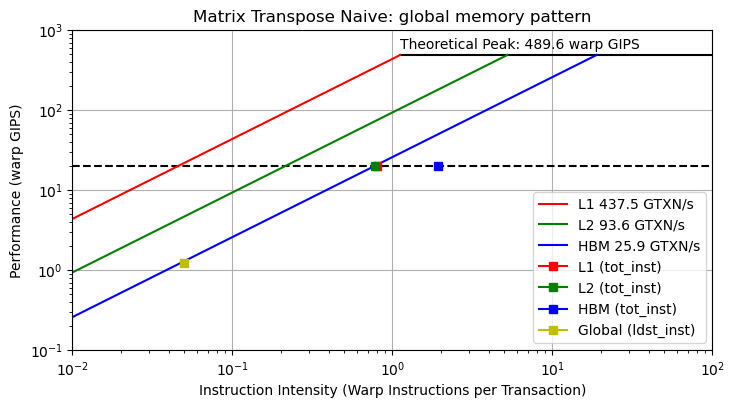
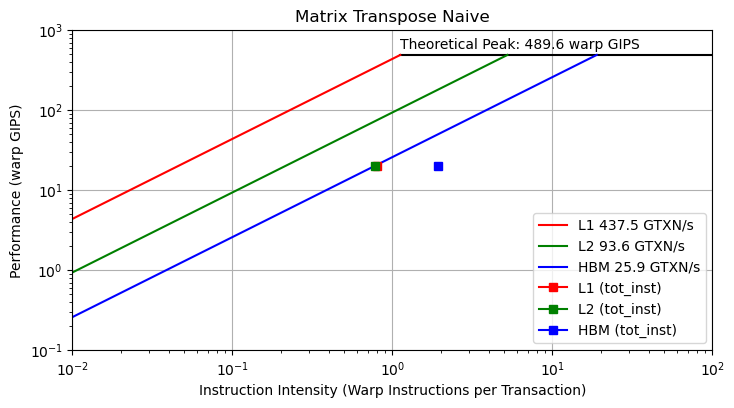
Remake of plot.py

diff --git a/plot.py b/plot.py
@@ -1,109 +1,10 @@
 import matplotlib
-matplotlib.use("Agg")
 import matplotlib.pyplot as plt
 import numpy as np
 import pandas as pd
+import argparse
 
-def roofline(kernel_name):
-    # Format csv files to discard nvprof unwanted output
-    # e.g. : ==5328== NVPROF is profiling process 5328, command: ./transpose
-
-    for file in [f'timing_{kernel_name}.csv', f'metrics_{kernel_name}.csv', f'events_{kernel_name}.csv']:
-        with open(file,"r+") as f:
-            new_f = f.readlines()
-            f.seek(0)
-            for line in new_f:
-                if "==" not in line:
-                    f.write(line)
-            f.truncate()
-
-    # get csv databases with pandas
-    timing = pd.read_csv(f'timing_{kernel_name}.csv')
-    events = pd.read_csv(f'events_{kernel_name}.csv')
-    metrics = pd.read_csv(f'metrics_{kernel_name}.csv')
-
-    ## Kernel Time ##
-    time_row = timing.loc[(timing.Name.str.match(r'{}.'.format(kernel_name), na=False))]
-
-    kernel_time = float(time_row["Avg"]) # average kernel time
-
-    unit_row = timing.loc[(timing['Time(%)'].str.match('%', na=False))]
-    unit = unit_row.iloc[0]["Avg"] # unit used
-
-    # change to usec
-    if unit == 'ms':
-        kernel_time *= 1000
-    elif unit == 'ns':
-        kernel_time /= 1000
-    elif unit == 's':
-        kernel_time *= 1000000
-
-    # Total Instructions
-
-    instructions = events.loc[(events["Event Name"] == "thread_inst_executed")]
-
-    # take Average if there are multiple kernel calls and scale to  warp-level
-    total_inst_nrml = int(instructions["Avg"]) / 32 
-
-
-    ## L1 stats ##
-
-    gld_stats = metrics.loc[(metrics["Metric Name"] == "gld_transactions")]
-    gld_transactions = int(gld_stats["Avg"])
-
-    gst_stats = metrics.loc[(metrics["Metric Name"] == "gst_transactions")]
-    gst_transactions = int(gst_stats["Avg"])
-
-    sld_stats = metrics.loc[(metrics["Metric Name"] == "shared_load_transactions")]
-    sld_transactions = int(sld_stats["Avg"])
-
-    sst_stats = metrics.loc[(metrics["Metric Name"] == "shared_store_transactions")]
-    sst_transactions = int(sst_stats["Avg"])
-
-    l1_total = gld_transactions + gst_transactions + sld_transactions + sst_transactions
-
-    l1_intensity = total_inst_nrml / l1_total
-    l1_performance = total_inst_nrml / (1000 * kernel_time) # performance in  GIPS ( kernel_time in μsecs )
-
-
-    ## Global Transactions ##
-
-    gb_stats = metrics.loc[(metrics["Metric Name"] == "inst_executed_global_loads")]
-    gb_transactions = int(gb_stats["Avg"])
-
-    gb_total = gld_transactions + gst_transactions
-    gb_intensity = gb_transactions / gb_total
-    gb_performance = gb_transactions / (1000 * kernel_time)
-
-
-    ## L2 stats ##
-
-    l2_read_stats = metrics.loc[(metrics["Metric Name"] == "l2_read_transactions")]
-    l2_read_transactions = int(l2_read_stats["Avg"])
-
-    l2_write_stats = metrics.loc[(metrics["Metric Name"] == "l2_write_transactions")]
-    l2_write_transactions = int(l2_write_stats["Avg"])
-
-    l2_total = l2_read_transactions + l2_write_transactions 
-
-    l2_intensity = total_inst_nrml / l2_total
-    l2_performance = total_inst_nrml / (1000 * kernel_time) # performance in  GIPS ( kernel_time in μsecs )
-
-
-    ## HBM stats ##
-
-    dram_read_stats = metrics.loc[(metrics["Metric Name"] == "dram_read_transactions")]
-    dram_read_transactions = int(dram_read_stats["Avg"])
-
-    dram_write_stats = metrics.loc[(metrics["Metric Name"] == "dram_write_transactions")]
-    dram_write_transactions = int(dram_write_stats["Avg"])
-
-    dram_total = dram_read_transactions + dram_write_transactions 
-
-    hbm_intensity = total_inst_nrml / dram_total
-    hbm_performance = total_inst_nrml / (1000 * kernel_time) # performance in  GIPS ( kernel_time in μsecs )
-
-
+def create_graph():
     ## Define Bandwidths ##
 
     peak = 489.6 # theoretical peak 489.6 warp GIPS
@@ -138,10 +39,6 @@ def roofline(kernel_name):
     instr_min = 10**xmin
     instr_max = 10**xmax
 
-    # define ceilings
-    help_x = np.asarray([instr_min, instr_max]) # helper dotted line
-    help_y = np.asarray([l1_performance, l1_performance])
-
     peak_x = np.asarray([l1_elbow, 10**xmax]) # performance ceiling
     peak_y = np.asarray([peak, peak]) 
 
@@ -155,29 +52,210 @@ def roofline(kernel_name):
     hbm_y = np.asarray([hbm_bw*instr_min, peak])
 
     # add architectural characterization to figure
-    ax.plot(help_x, help_y, color='0', linestyle='--')
     ax.plot(peak_x, peak_y, color='0') # Performance ceiling
     ax.plot(l1_x, l1_y, color='r', label='L1 437.5 GTXN/s') # L1 ceiling
     ax.plot(l2_x, l2_y, color='g', label='L2 93.6 GTXN/s') # L2 ceiling
     ax.plot(hbm_x, hbm_y, color='b', label='HBM 25.9 GTXN/s') # HBM ceiling
 
-    # add application characterization
-    ax.plot(l1_intensity, l1_performance, color='r', marker = 's', label="L1 (tot_inst)")
-    ax.plot(l2_intensity, l2_performance, color='g', marker = 's', label="L2 (tot_inst)")
-    ax.plot(hbm_intensity, hbm_performance, color='b', marker = 's', label="HBM (tot_inst)")
-    ax.plot(gb_intensity, gb_performance, color='y', marker = 's', label="Global (ldst_inst)")
+    # text for peak performance
+    ax.text(l1_elbow, peak+100, f'Theoretical Peak: {peak} warp GIPS')
+
+    return ax,fig
+
+def timing(kernel_dic, kernel_name, filename):
+    # Format csv files to discard nvprof unwanted output
+    # e.g. : ==5328== NVPROF is profiling process 5328, command: ./transpose
+
+    with open(filename,"r+") as f:
+        new_f = f.readlines()
+        f.seek(0)
+        for line in new_f:
+            if "==" not in line:
+                f.write(line)
+        f.truncate()
+
+    # get csv database with pandas
+    timing = pd.read_csv(filename)
+
+    ## Kernel Time ##
+    time_row = timing.loc[(timing.Name.str.match(r'{}.'.format(kernel_name), na=False))]
+
+    kernel_time = float(time_row["Avg"]) # average kernel time
+
+    unit_row = timing.loc[(timing['Time(%)'].str.match('%', na=False))]
+    unit = unit_row.iloc[0]["Avg"] # unit used
+
+    # change to usec
+    if unit == 'ms':
+        kernel_time *= 1000
+    elif unit == 'ns':
+        kernel_time /= 1000
+    elif unit == 's':
+        kernel_time *= 1000000
+
+    id = filename.split('.')[0].split('_')[1]
+    kernel_dic[id] = {}
+    kernel_dic[id]['kernel_time'] = kernel_time
 
 
-    # add title, optional text for peak and labels
-    ax.text(l1_elbow, peak+100, 'Theoretical Peak: 489.6 warp GIPS')
-    ax.legend(loc='lower right')
+def find_inst(kernel_dic, kernel_name, filename):
+    with open(filename,"r+") as f:
+        new_f = f.readlines()
+        f.seek(0)
+        for line in new_f:
+            if "==" not in line:
+                f.write(line)
+        f.truncate()
 
-    ax.set_title("Matrix Transpose Naive: global memory pattern")
-    ax.grid(True)
+    events = pd.read_csv(filename)
 
-    figname = f"roofline_{kernel_name}.png"
-    fig.savefig(figname, bbox_inches="tight")
+    # Total Instructions
+    # If executing a python kernel there might be multiple calls 
+    # to profiling function e.g. fft kernel
+    instructions = events.loc[(events["Event Name"] == "thread_inst_executed")]
+    kernel_inst = instructions.loc[(instructions.Kernel.str.match(r'{}.'.format(kernel_name), na=False))]
+    total_inst_nrml = 0
+    for inst in kernel_inst['Avg']:
+        total_inst_nrml += int(inst)
+
+    total_inst_nrml /= 32
+
+    id = filename.split('.')[0].split('_')[1]
+    kernel_dic[id]['total_inst'] = total_inst_nrml
+
+
+
+def app_char(kernel_dic, kernel_name, filename, graph, simple):
+    with open(filename,"r+") as f:
+        new_f = f.readlines()
+        f.seek(0)
+        for line in new_f:
+            if "==" not in line:
+                f.write(line)
+        f.truncate()
+
+    metrics = pd.read_csv(filename)
+    id = filename.split('.')[0].split('_')[1]
+
+    ## L1 stats ##
+    gld_stats = metrics.loc[(metrics["Metric Name"] == "gld_transactions")]
+    gld_stats = gld_stats.loc[(gld_stats.Kernel.str.match(r'{}.'.format(kernel_name), na=False))]
+    gld_transactions = 0
+    for tr in gld_stats["Avg"]:
+        gld_transactions += int(tr)
+
+    gst_stats = metrics.loc[(metrics["Metric Name"] == "gst_transactions")]
+    gst_stats = gst_stats.loc[(gst_stats.Kernel.str.match(r'{}.'.format(kernel_name), na=False))]
+    gst_transactions = 0
+    for tr in gst_stats["Avg"]:
+        gst_transactions += int(tr)
+
+    sld_stats = metrics.loc[(metrics["Metric Name"] == "shared_load_transactions")]
+    sld_stats = sld_stats.loc[(sld_stats.Kernel.str.match(r'{}.'.format(kernel_name), na=False))]
+    sld_transactions = 0
+    for tr in sld_stats["Avg"]:
+        sld_transactions += int(tr)
+
+    sst_stats = metrics.loc[(metrics["Metric Name"] == "shared_store_transactions")]
+    sst_stats = sst_stats.loc[(sst_stats.Kernel.str.match(r'{}.'.format(kernel_name), na=False))]
+    sst_transactions = 0
+    for tr in sst_stats["Avg"]:
+        sst_transactions += int(tr)
+
+    l1_total = gld_transactions + gst_transactions + sld_transactions + sst_transactions
+
+    l1_intensity = kernel_dic[id]['total_inst'] / l1_total
+    l1_performance = kernel_dic[id]['total_inst'] / (1000 * kernel_dic[id]['kernel_time']) # performance in  GIPS ( kernel_time in μsecs )
+
+    if simple:
+        graph.plot(l1_intensity, l1_performance, color='r', marker = 's', label="Total Instructions")
+        return
+
+    graph.plot(l1_intensity, l1_performance, color='r', marker = 's', label="L1 (tot_inst)")
+
+    ## L2 stats ##
+
+    l2_read_stats = metrics.loc[(metrics["Metric Name"] == "l2_read_transactions")]
+    l2_read_stats = l2_read_stats.loc[(l2_read_stats.Kernel.str.match(r'{}.'.format(kernel_name), na=False))]
+    l2_read_transactions = 0
+    for tr in l2_read_stats["Avg"]:
+        l2_read_transactions += int(tr)
+
+    l2_write_stats = metrics.loc[(metrics["Metric Name"] == "l2_write_transactions")]
+    l2_write_stats = l2_write_stats.loc[(l2_write_stats.Kernel.str.match(r'{}.'.format(kernel_name), na=False))]
+    l2_write_transactions = 0
+    for tr in l2_write_stats["Avg"]:
+        l2_write_transactions += int(tr)
+
+    l2_total = l2_read_transactions + l2_write_transactions 
+
+    l2_intensity = kernel_dic[id]['total_inst'] / l2_total
+    l2_performance = kernel_dic[id]['total_inst'] / (1000 * kernel_dic[id]['kernel_time']) # performance in  GIPS ( kernel_time in μsecs )
+
+    graph.plot(l2_intensity, l2_performance, color='g', marker = 's', label="L2 (tot_inst)")
+
+    ## HBM stats ##
+
+    dram_read_stats = metrics.loc[(metrics["Metric Name"] == "dram_read_transactions")]
+    dram_read_stats = dram_read_stats.loc[(dram_read_stats.Kernel.str.match(r'{}.'.format(kernel_name), na=False))]
+    dram_read_transactions = 0
+    for tr in dram_read_stats["Avg"]:
+        dram_read_transactions += int(tr)
+
+    dram_write_stats = metrics.loc[(metrics["Metric Name"] == "dram_write_transactions")]
+    dram_write_stats = dram_write_stats.loc[(dram_write_stats.Kernel.str.match(r'{}.'.format(kernel_name), na=False))]
+    dram_write_transactions = 0
+    for tr in dram_write_stats["Avg"]:
+        dram_write_transactions += int(tr)
+
+    dram_total = dram_read_transactions + dram_write_transactions 
+
+    hbm_intensity = kernel_dic[id]['total_inst'] / dram_total
+    hbm_performance = kernel_dic[id]['total_inst'] / (1000 * kernel_dic[id]['kernel_time']) # performance in  GIPS ( kernel_time in μsecs )
+
+    graph.plot(hbm_intensity, hbm_performance, color='b', marker = 's', label="HBM (tot_inst)")
 
 
 if __name__ == "__main__":
-    roofline('transpose') # define kernel name used in csv files  
+    parser = argparse.ArgumentParser(description='Plot roofline model')
+    parser.add_argument('-kernel_name', type=str, help='Kernel name as shown in csv')
+    parser.add_argument('-timings', nargs='+', help='Timing files (timing_kernel.csv)')
+    parser.add_argument('-events', nargs='+', help='Event files (events_kernel.csv)')
+    parser.add_argument('-metrics', nargs='+', help='Metric files (metrics_kernel.csv)')
+    parser.add_argument('-title', type=str, help='Graph title')
+    parser.add_argument('-out', type=str, help='Output file (default = roofline_kernel_name.png)')
+    parser.add_argument('-simple', action='store_true', help='Plot only total transactions')
+    args = parser.parse_args()
+
+    timings = args.timings
+    events = args.events
+    metrics = args.metrics
+    simple = args.simple
+    
+    kernel_name = args.kernel_name
+    title = args.title
+    out = args.out
+
+
+    ax, fig = create_graph()
+    
+    kernel_dic = {}
+
+    for file in timings:
+        timing(kernel_dic, kernel_name, file)
+
+    for file in events:
+        find_inst(kernel_dic, kernel_name, file)
+
+    for file in metrics:
+        app_char(kernel_dic, kernel_name, file, ax, simple)
+    
+    # add title and legend
+    ax.legend(loc='lower right')
+
+    ax.set_title(title)
+    ax.grid(True)
+
+    figname = f"roofline_{kernel_name}.png" if out is None else out
+
+    fig.savefig(figname, bbox_inches="tight")
